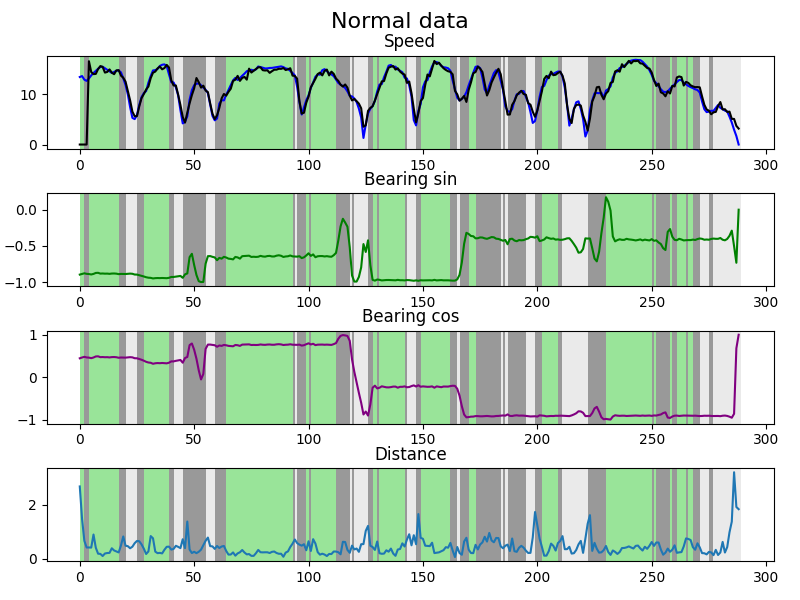
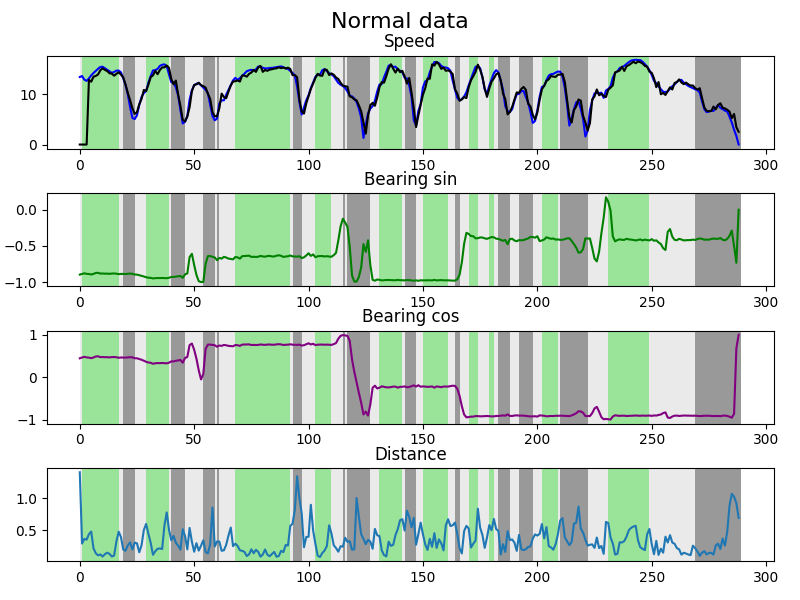
better model

diff --git a/Model.py b/Model.py
@@ -19,8 +19,8 @@ class Traj_enc(nn.Module):
         self.combined_c = nn.Conv1d(30, 40, kernel_size=3)
         self.combined_bn = nn.BatchNorm1d(40)
 
-        self.enc_fc = nn.Linear(40, 20)
-        self.out_bn = nn.BatchNorm1d(20)
+        self.enc_fc = nn.Linear(40, 40)
+        self.out_bn = nn.BatchNorm1d(40)
 
     def forward(self, speed, sin, cos):
         speed = self.speed_c1(speed)
@@ -53,7 +53,7 @@ class Traj_model(nn.Module):
         super(Traj_model, self).__init__()
 
         self.enc = Traj_enc()
-        self.speed_dec_fc1 = nn.Linear(20, 1)
+        self.speed_dec_fc1 = nn.Linear(40, 1)
 
     def forward(self, speed, sin, cos, return_enc=False):
         enc = self.enc(speed, sin, cos)
@@ -74,7 +74,7 @@ class class_model(nn.Module):
         super(class_model, self).__init__()
 
         self.enc = pretrained_model.enc
-        self.class_dec = nn.Linear(20, 1)
+        self.class_dec = nn.Linear(40, 1)
 
     def forward(self, speed, sin, cos):
         out = self.enc(speed, sin, cos)

diff --git a/README.md b/README.md
@@ -54,7 +54,7 @@ Unsupervised and supervised methods were compared to the handmade approach. The 
 
 This model was then used to cluster the data and to initialize the weights of the supervised model.
 
-The KMeans method (n=3) was able to split the GPS data into stable high speed (green), transition (dark gray), and stable or acceleration at low speeds (white).
+The KMeans method (n=3) tries to split the extracted features into stable high speed (green), acceleration (white), and deceleration (gray).
 
 For the supervised approach, it was used binary cross entropy with weights 1,6 for the non-accidents and accidents, respectively. Only the first 550 steps of the emergency data was used.
 
